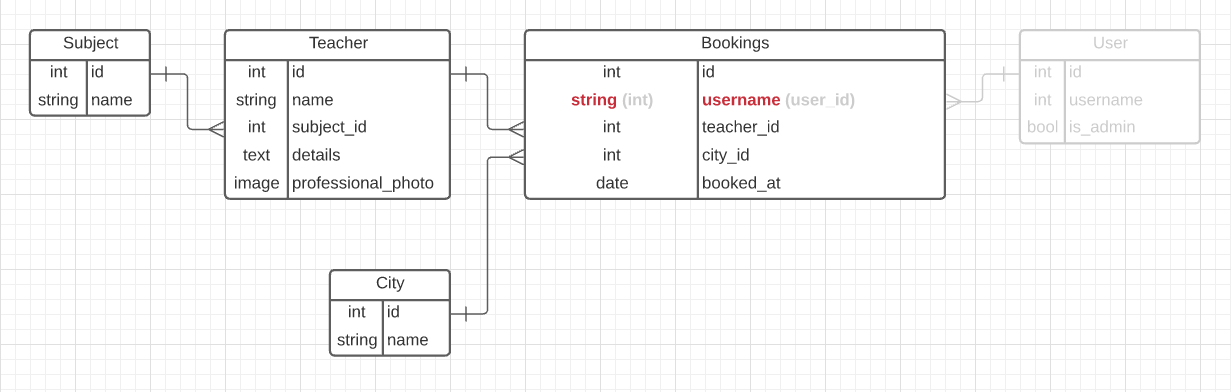
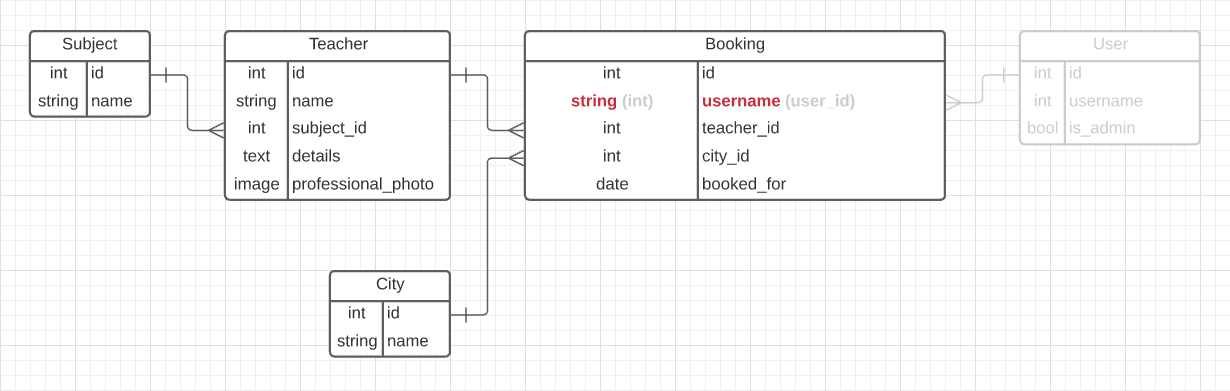
Add Models and migrations

diff --git a/db/schema.rb b/db/schema.rb
@@ -1,0 +1,53 @@
+# This file is auto-generated from the current state of the database. Instead
+# of editing this file, please use the migrations feature of Active Record to
+# incrementally modify your database, and then regenerate this schema definition.
+#
+# This file is the source Rails uses to define your schema when running `bin/rails
+# db:schema:load`. When creating a new database, `bin/rails db:schema:load` tends to
+# be faster and is potentially less error prone than running all of your
+# migrations from scratch. Old migrations may fail to apply correctly if those
+# migrations use external dependencies or application code.
+#
+# It's strongly recommended that you check this file into your version control system.
+
+ActiveRecord::Schema.define(version: 2021_10_07_222241) do
+
+  # These are extensions that must be enabled in order to support this database
+  enable_extension "plpgsql"
+
+  create_table "bookings", force: :cascade do |t|
+    t.string "username"
+    t.date "booked_for"
+    t.bigint "teacher_id"
+    t.bigint "city_id"
+    t.datetime "created_at", precision: 6, null: false
+    t.datetime "updated_at", precision: 6, null: false
+    t.index ["city_id"], name: "index_bookings_on_city_id"
+    t.index ["teacher_id"], name: "index_bookings_on_teacher_id"
+  end
+
+  create_table "cities", force: :cascade do |t|
+    t.string "name"
+    t.datetime "created_at", precision: 6, null: false
+    t.datetime "updated_at", precision: 6, null: false
+  end
+
+  create_table "subjects", force: :cascade do |t|
+    t.string "name"
+    t.datetime "created_at", precision: 6, null: false
+    t.datetime "updated_at", precision: 6, null: false
+  end
+
+  create_table "teachers", force: :cascade do |t|
+    t.string "name"
+    t.text "details"
+    t.bigint "subject_id"
+    t.datetime "created_at", precision: 6, null: false
+    t.datetime "updated_at", precision: 6, null: false
+    t.index ["subject_id"], name: "index_teachers_on_subject_id"
+  end
+
+  add_foreign_key "bookings", "cities"
+  add_foreign_key "bookings", "teachers"
+  add_foreign_key "teachers", "subjects"
+end

diff --git a/db/migrate/20211007222241_create_bookings.rb b/db/migrate/20211007222241_create_bookings.rb
@@ -1,0 +1,12 @@
+class CreateBookings < ActiveRecord::Migration[6.1]
+  def change
+    create_table :bookings do |t|
+      t.string :username
+      t.date :booked_for
+      t.belongs_to :teacher, index: true, foreign_key: true
+      t.belongs_to :city, index: true, foreign_key: true
+
+      t.timestamps
+    end
+  end
+end

diff --git a/db/migrate/20211007222134_create_teachers.rb b/db/migrate/20211007222134_create_teachers.rb
@@ -1,0 +1,11 @@
+class CreateTeachers < ActiveRecord::Migration[6.1]
+  def change
+    create_table :teachers do |t|
+      t.string :name
+      t.text :details
+      t.belongs_to :subject, index: true, foreign_key: true
+
+      t.timestamps
+    end
+  end
+end

diff --git a/db/migrate/20211007222031_create_subjects.rb b/db/migrate/20211007222031_create_subjects.rb
@@ -1,0 +1,9 @@
+class CreateSubjects < ActiveRecord::Migration[6.1]
+  def change
+    create_table :subjects do |t|
+      t.string :name
+
+      t.timestamps
+    end
+  end
+end

diff --git a/db/migrate/20211007222058_create_cities.rb b/db/migrate/20211007222058_create_cities.rb
@@ -1,0 +1,9 @@
+class CreateCities < ActiveRecord::Migration[6.1]
+  def change
+    create_table :cities do |t|
+      t.string :name
+
+      t.timestamps
+    end
+  end
+end

diff --git a/app/models/subject.rb b/app/models/subject.rb
@@ -1,0 +1,3 @@
+class Subject < ApplicationRecord
+  has_many :teachers
+end

diff --git a/app/models/teacher.rb b/app/models/teacher.rb
@@ -1,0 +1,3 @@
+class Teacher < ApplicationRecord
+  has_many :bookings
+end

diff --git a/app/models/city.rb b/app/models/city.rb
@@ -1,0 +1,3 @@
+class City < ApplicationRecord
+  has_many :bookings
+end

diff --git a/app/models/booking.rb b/app/models/booking.rb
@@ -1,0 +1,2 @@
+class Booking < ApplicationRecord
+end
